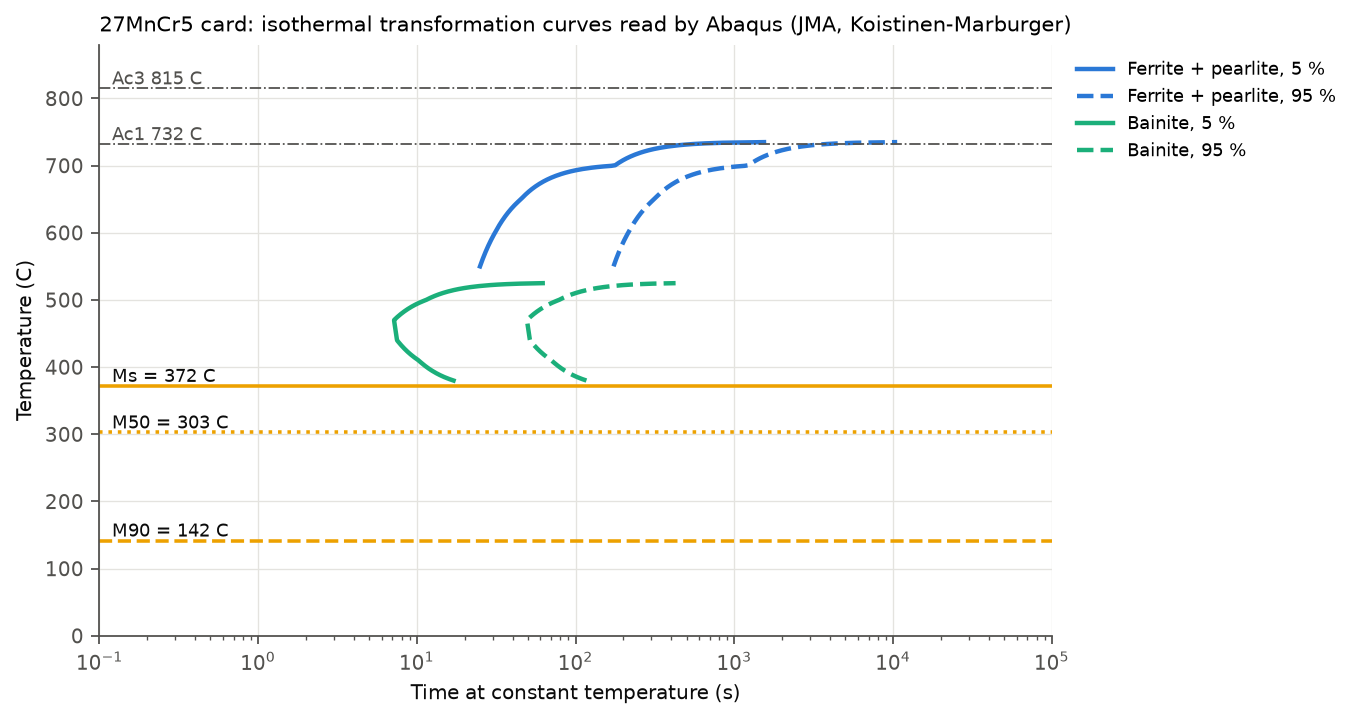
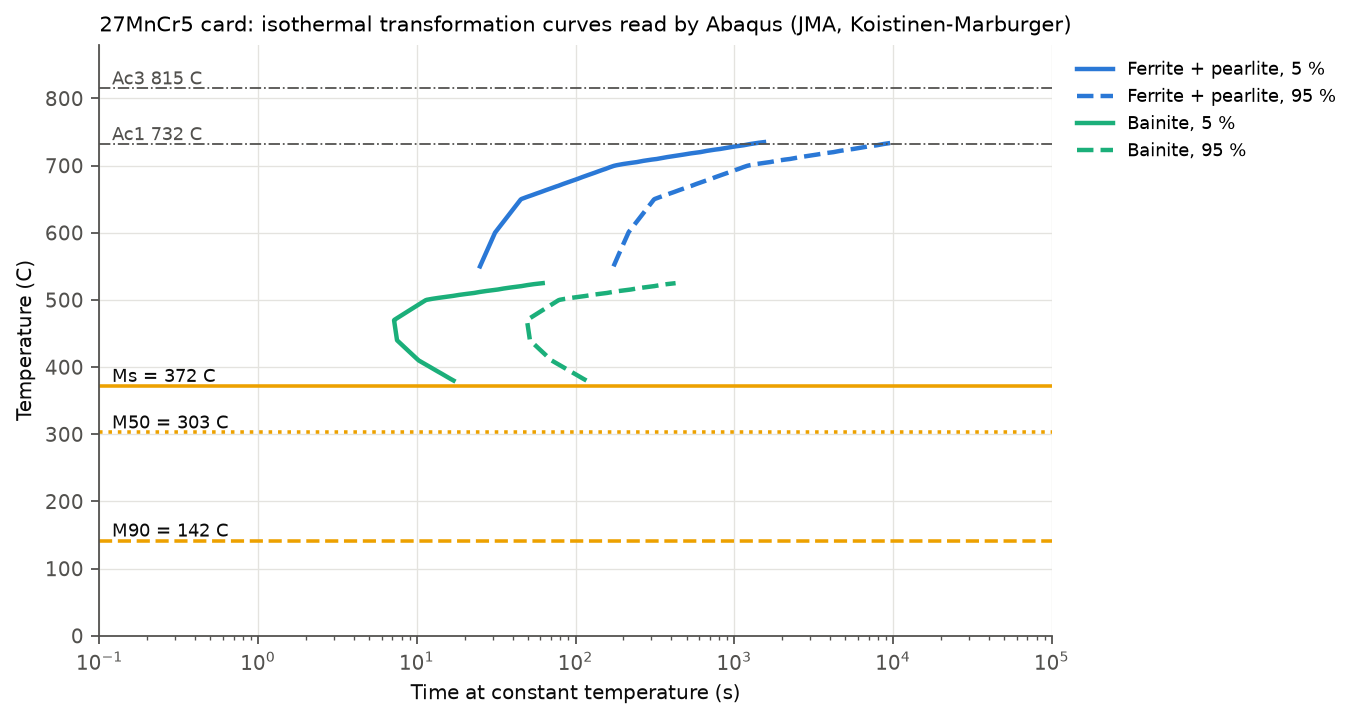
27MnCr5 card: intermediate points in the cooling JMA tables (k log-linear every 5 K, since Abaqus interpolates the table linearly); folder 07 README and TTT figure updated

diff --git a/07_metallurgical_phase_transformation/README.md b/07_metallurgical_phase_transformation/README.md
@@ -70,7 +70,7 @@ The conductivity rises to about 100 W/m.K in the liquid: the usual enhanced cond
   <img src="../99_images_and_miscelania/ph07_ttt_27MnCr5.png" alt="Isothermal transformation curves of the 27MnCr5 card" width="85%">
 </p>
 
-The curves are drawn as Abaqus reads the tables: k and n interpolated linearly in temperature between the table points. The austenite -> ferrite table has points at 550, 600, 650, 700 and 735 C only, and k falls by almost two orders of magnitude between the last two, so between 700 and 735 C the linear interpolation keeps k close to its 700 C value and the ferrite starts much earlier than the times the table was built from (at 720 C, start at about 260 s against about 610 s with a log-linear interpolation of the same points). The heating tables already carry extra points for this reason; the cooling tables do not yet (section 5).
+The curves are drawn as Abaqus reads the tables: k and n interpolated linearly in temperature between the table points. The austenite -> ferrite table had points at 550, 600, 650, 700 and 735 C only, and k falls by almost two orders of magnitude between the last two, so between 700 and 735 C the linear interpolation kept k close to its 700 C value and the ferrite started much earlier than the times the table was built from (at 720 C, start at about 260 s against about 610 s with a log-linear interpolation of the same points). The heating tables already carried extra points for this reason; the cooling tables of the 27MnCr5 card now carry them too (k log-linear and n linear every 5 K between the table points). On continuous cooling the effect is small, because most of the ferrite forms between 650 and 700 C where the table was dense enough: at 1 C/s the ferrite falls from 49.6 to 45.9 % (Python version of the framework; Abaqus run to follow).
 
 ### 2.2 Differential carrier: EN-GJS-600-10
 
@@ -193,7 +193,7 @@ The residual expansion of the martensitic steel, +0.17 to +0.18 %, matches the s
 
 ## 5. Limitations and open points
 
-- **Ferrite of 27MnCr5 near 1 C/s too fast** against the 20MnCrS5 bound (section 3.1). It does not touch the weld model (the heat affected zone cools at hundreds of C/s), but it does matter for slower cycles (preheating, post-weld heat treatment). Part of it is numerical: the coarse austenite -> ferrite table is interpolated linearly in k (section 2.1); the first step is to add log-linear intermediate points to the cooling tables, as already done for heating, and to repeat PT01. A measured CCT of 27MnCr5 is then needed to recalibrate the kinetics themselves.
+- **Ferrite of 27MnCr5 near 1 C/s too fast** against the 20MnCrS5 bound (section 3.1). It does not touch the weld model (the heat affected zone cools at hundreds of C/s), but it does matter for slower cycles (preheating, post-weld heat treatment). About 4 points of it were numerical (coarse table interpolated linearly in k, corrected, section 2.1); the rest is in the kinetics themselves, from the times of the base card scaled with Li et al. [3]. A measured CCT of 27MnCr5 is needed to recalibrate them.
 - **Ms is fixed.** In the measured CCT, Ms falls at slow rates as the remaining austenite is enriched in carbon; the cards keep one Ms.
 - **No ledeburite.** The partially melted zone of the cast iron forms martensite and ledeburite, with hardness above 800 HV [11]; the card has no phase for the eutectic carbide.
 - **Retention in the cast iron** is the guide's rule, kept because retained austenite is reported in the heat affected zone of the joint [11], with no measured amount.
